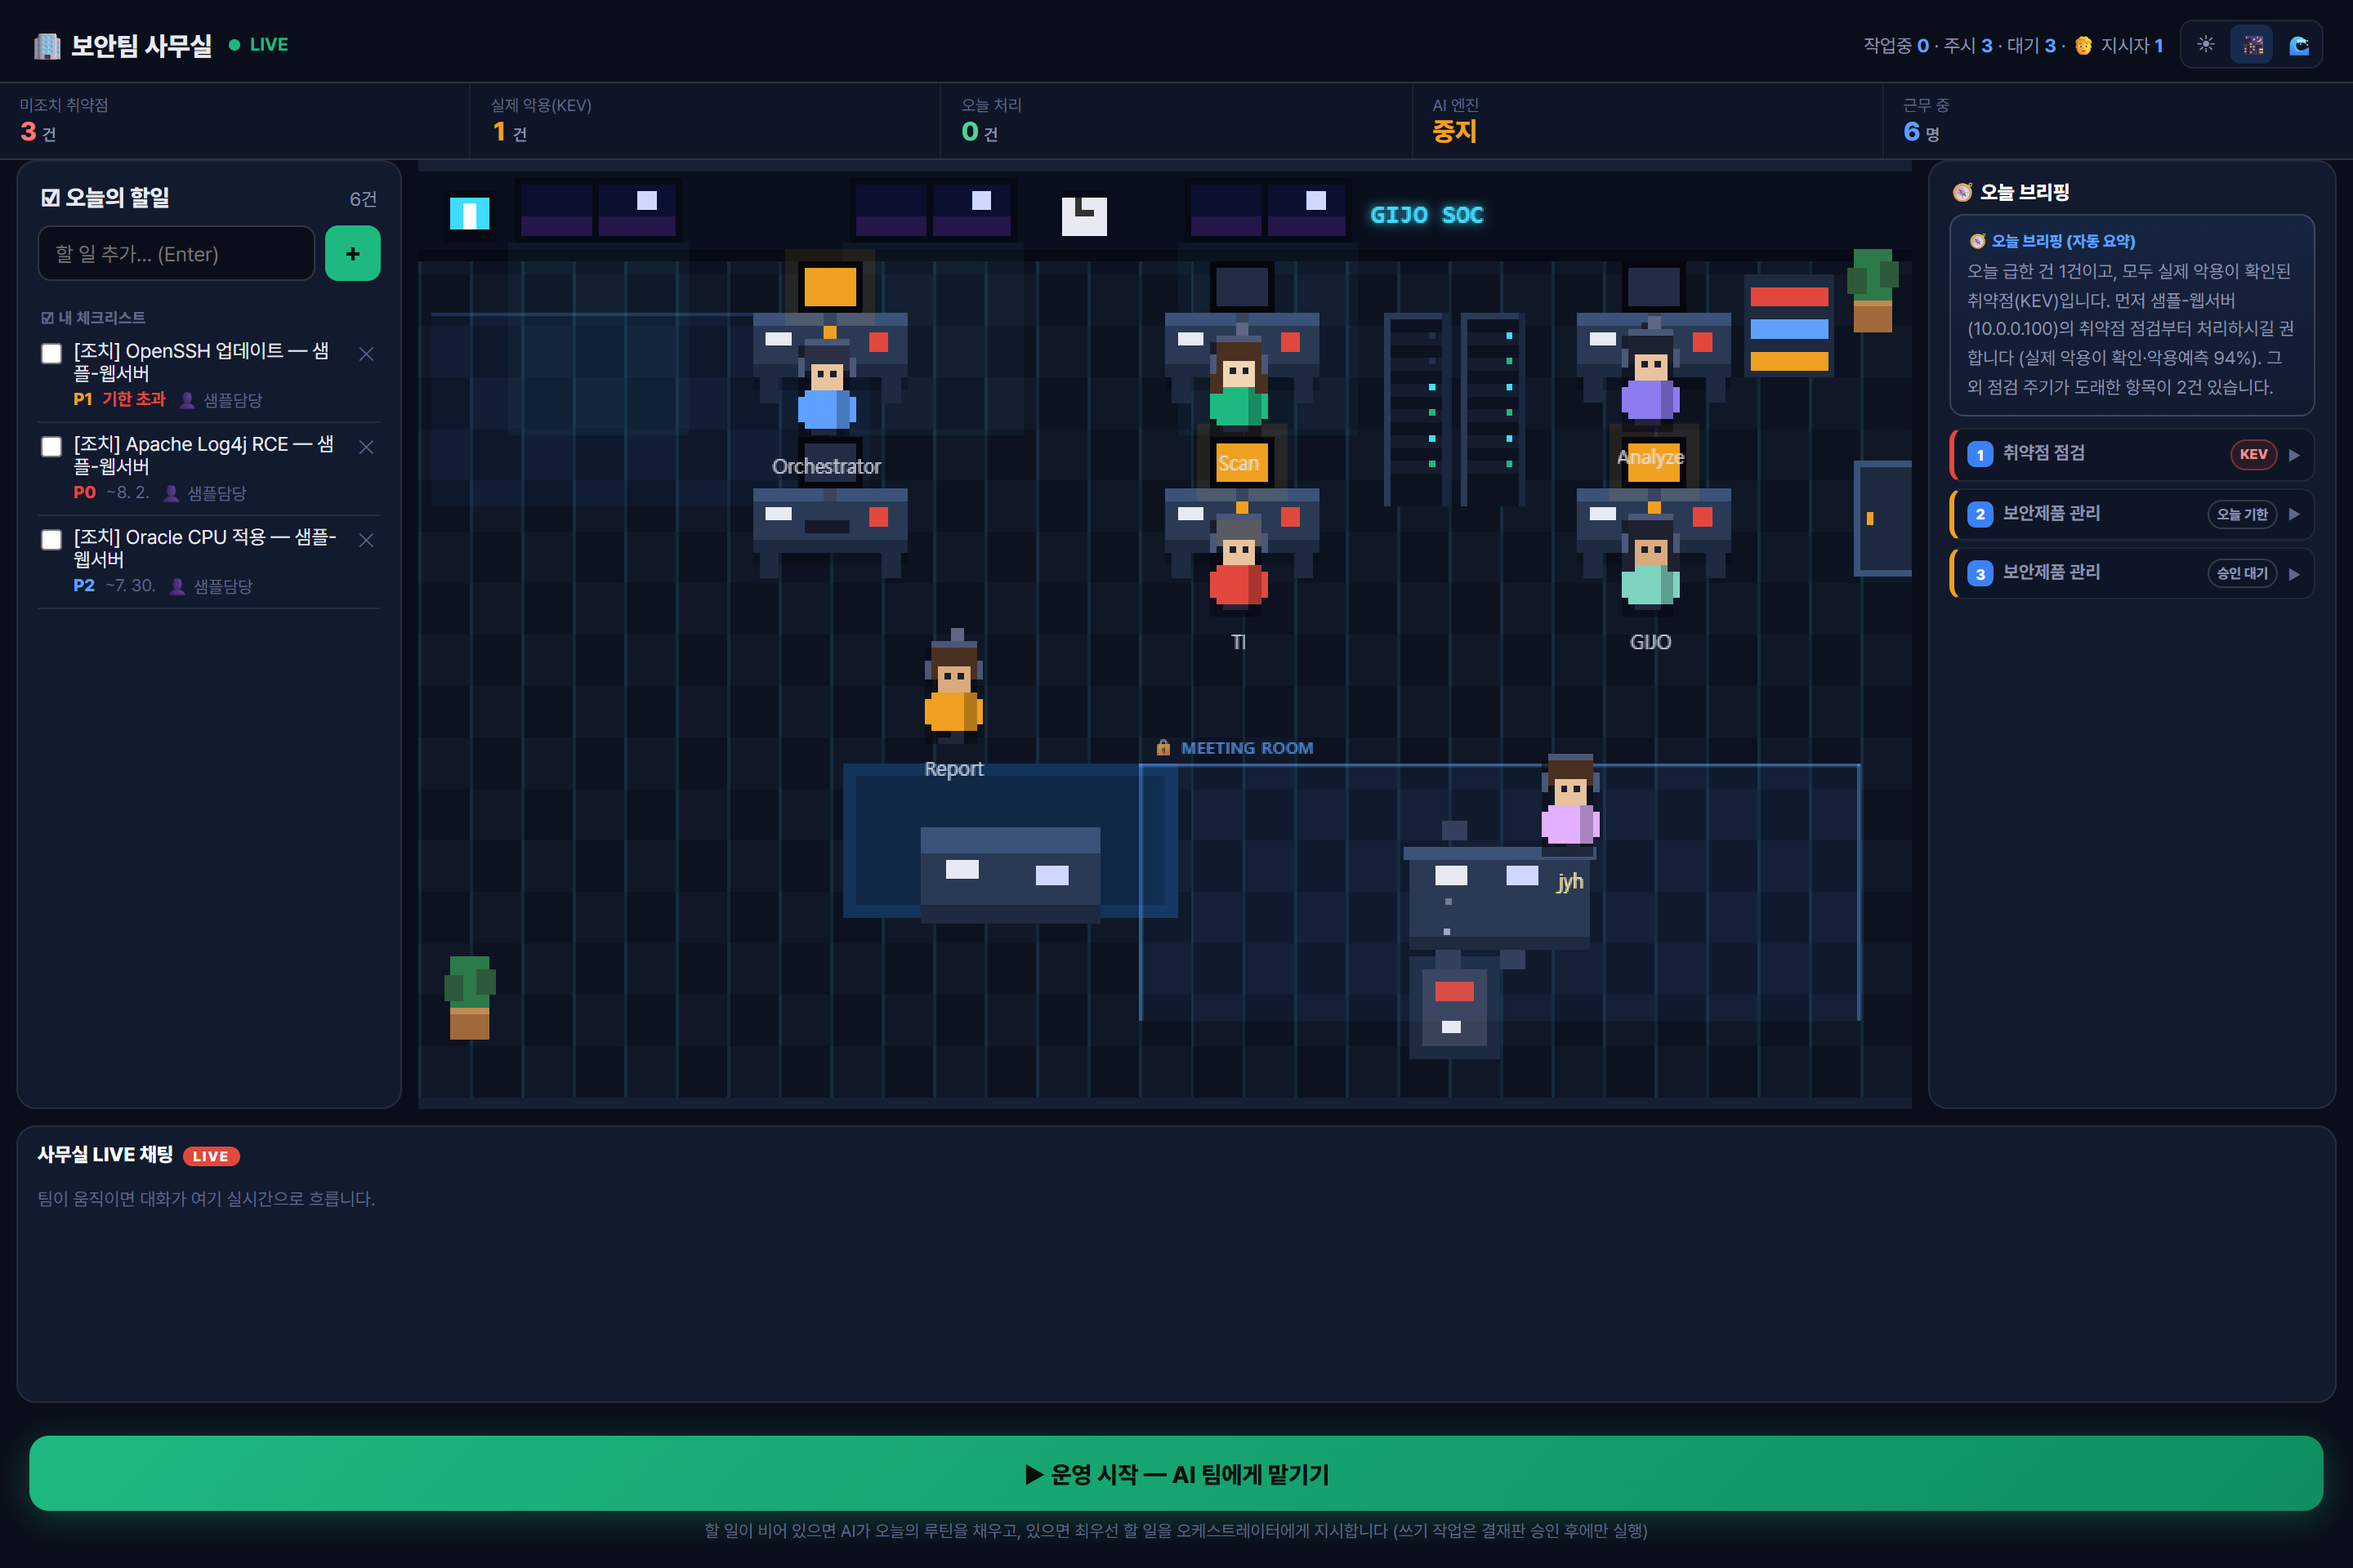
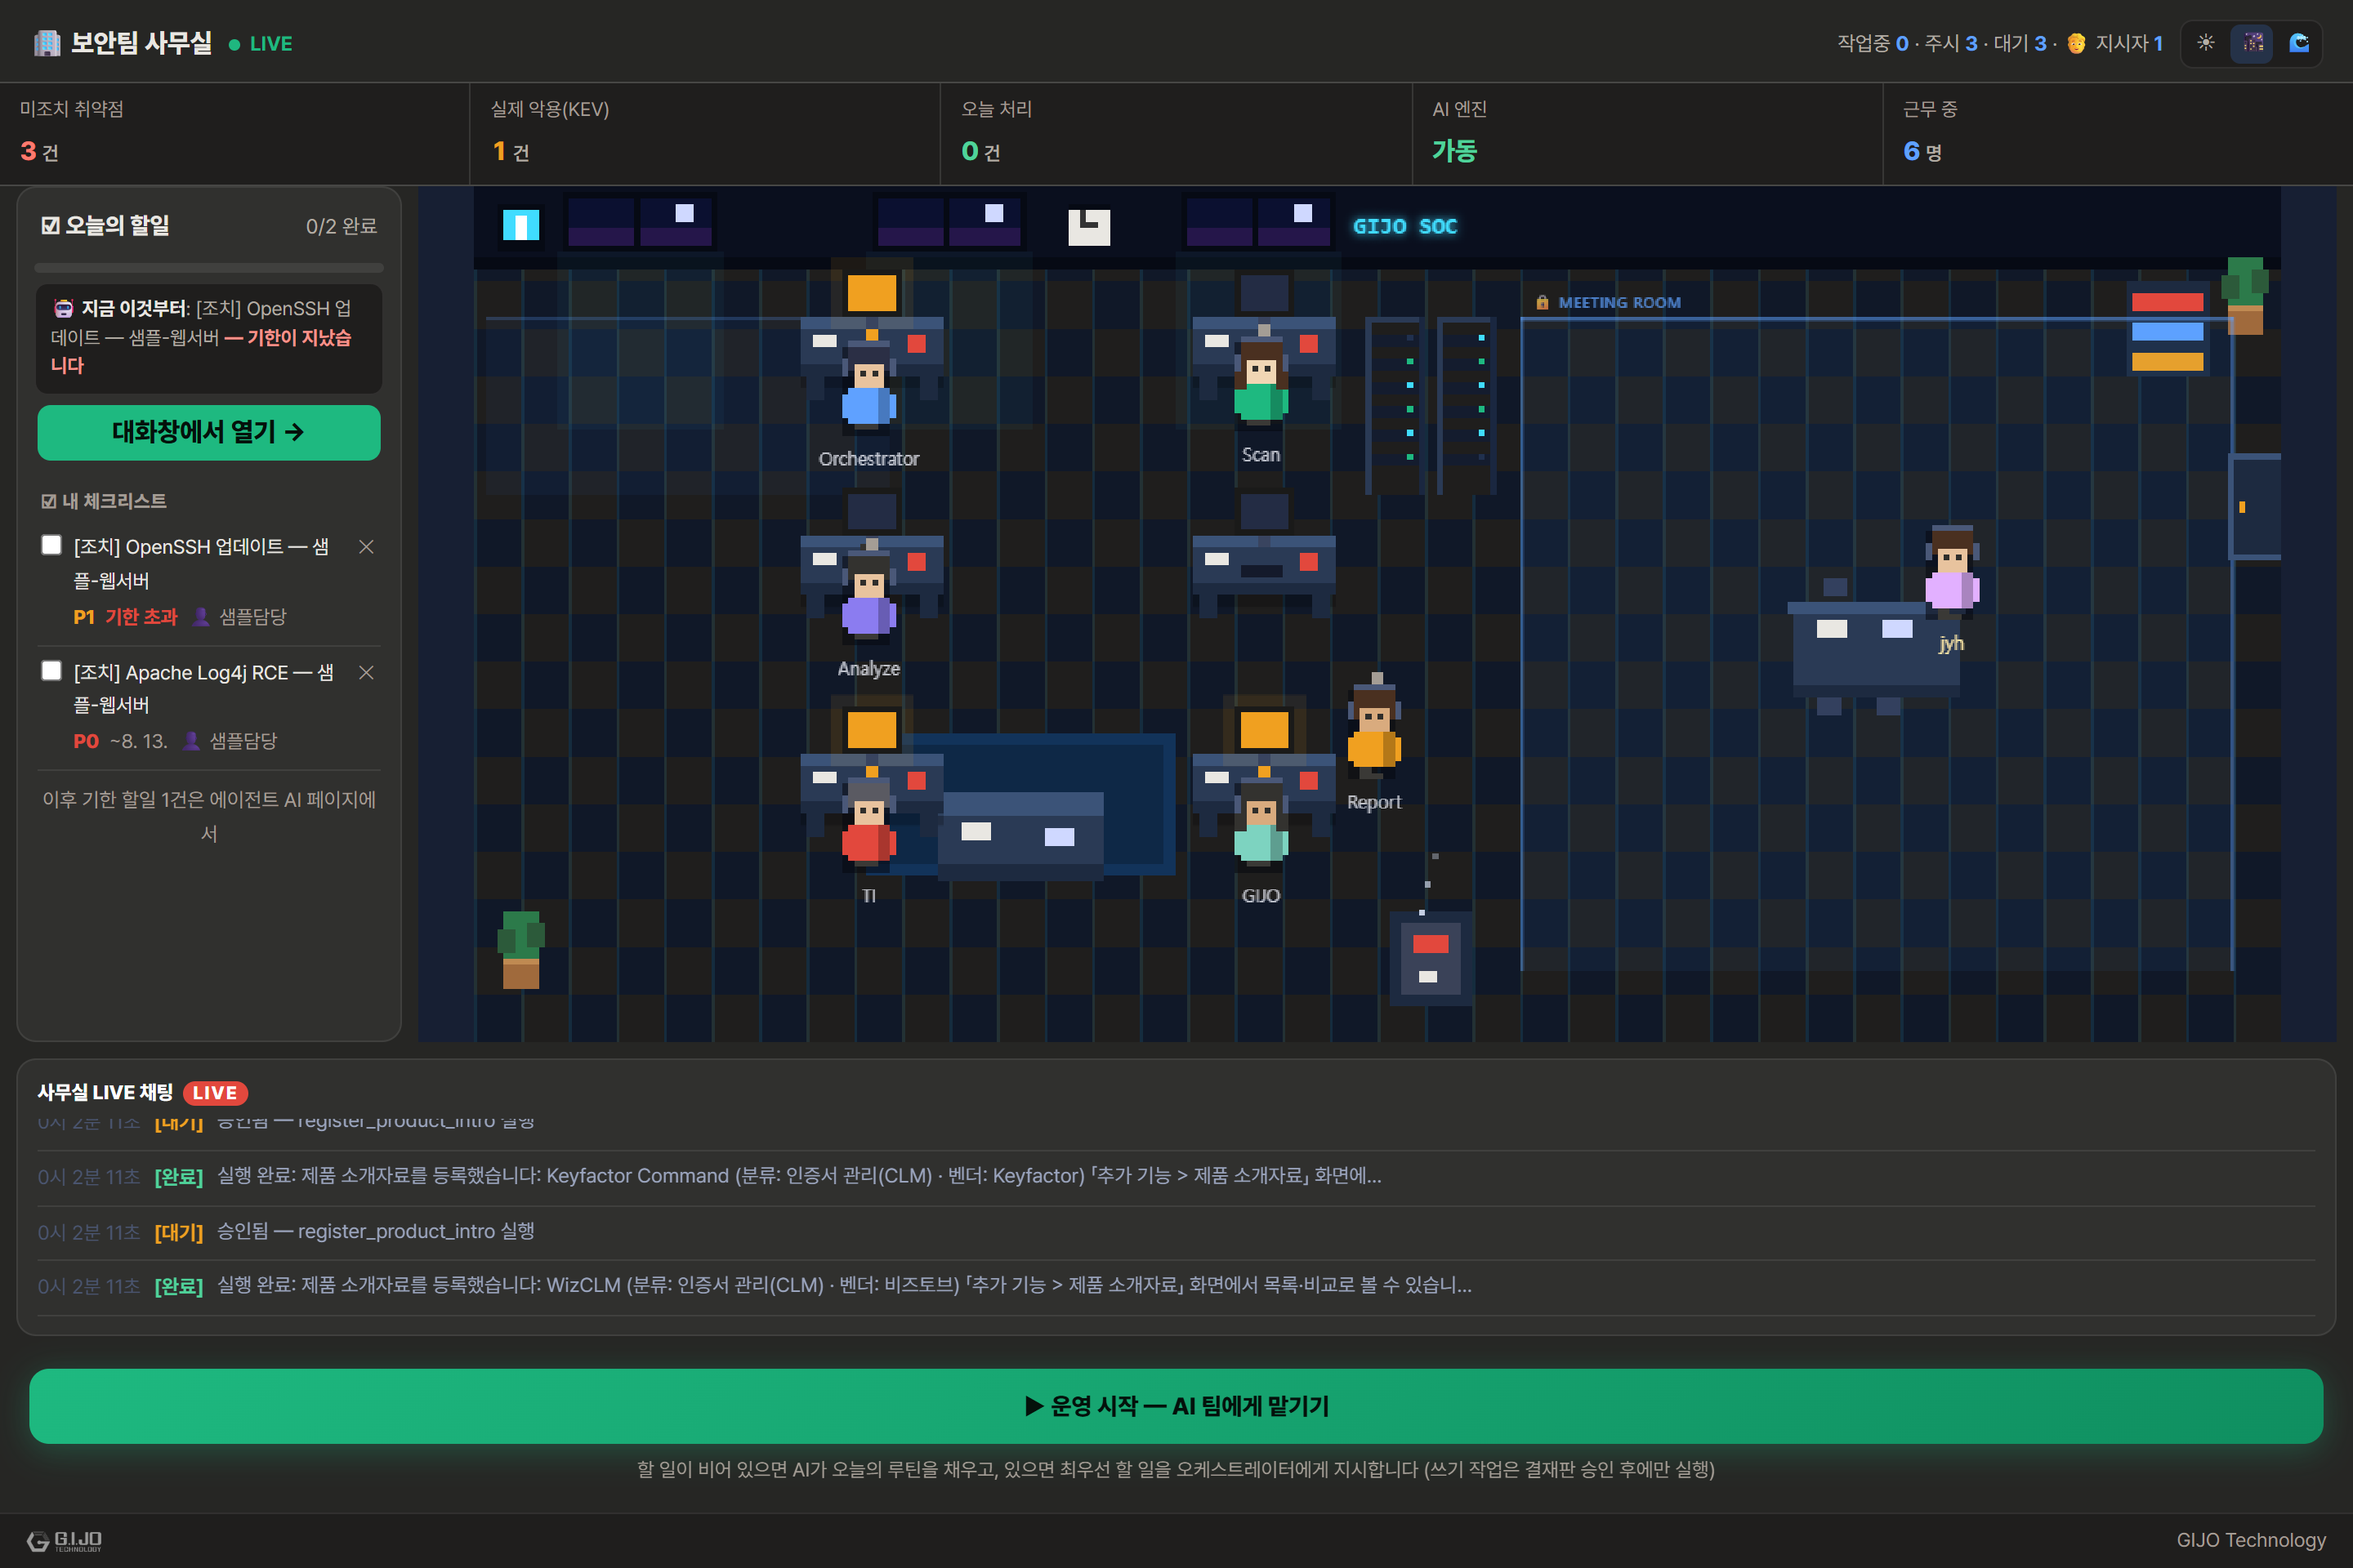
스크린샷 전량 재촬영(현재 화면) + 촬영 도구가 신규 화면 데이터를 알게
문서의 그림이 v2.x 시절이라 "글은 맞는데 그림이 다르다"는 상태였다. 절차 5단계 허브·
추가 기능 메뉴가 보이는 현재 화면으로 30여 장을 다시 찍었다.

 - gen-screenshots: 제품 소개자료·보안 로그 분석의 백데이터(productIntros·logFiles·
   analysisEvents)와 스텁 함수를 추가. 안 적으면 Proxy가 빈 배열을 돌려줘 **조용히 빈
   화면이 찍힌다** — 실제로 「등록된 소개자료가 없습니다」가 찍힌 것을 눈으로 보고 고쳤다
   (도구 주석이 경고하던 그 함정을 그대로 밟았다).
 - 촬영은 격리 서버(4068 · 임시 DB)로 하고, 소개자료 2건은 **제품의 결재 경로**로 넣었다
   (직접 INSERT 아님 — 화면이 실제 데이터를 그리는지 확인하려고).
 - 촬영 뒤 임시 서버·DB 정리 확인.

문서: 제품소개·사용자 매뉴얼의 「스크린샷은 옛 화면」 경고를 걷어내고 현재 화면임을 명시.
운영 문서 폴더 동기화·재인입까지 완료(docs-drift 어긋남 0).

diff --git a/GIJO_AS_제품소개.md b/GIJO_AS_제품소개.md
@@ -362,9 +362,7 @@ finding 내용 해시로 상태를 저장해 **재스캔 후에도 검토 결과
 
 아래 12장은 **실제 제품 화면**을 실측 서버 응답 데이터로 렌더링한 것입니다(1440×960, 2배 해상도).
 
-> ⚠ **스크린샷은 v2.x 시절 것입니다.** 그 뒤 메뉴가 **업무 절차 5단계 허브**로 개편됐고(4.15),
-> 화면 위쪽에 「한눈에 띠」가 생겼습니다. 지금 화면과 다르게 보이는 것은 그 때문입니다 —
-> 최신 화면 캡처는 다음 갱신 때 교체합니다. **기능 설명(4장)은 현재 제품 기준입니다.**
+> 스크린샷은 **현재 제품(5.11.0) 화면**입니다 — 업무 절차 5단계 허브·추가 기능 메뉴가 그대로 보입니다.
 
 | 파일 | 화면 | 보이는 실측 데이터 |
 |---|---|---|
@@ -387,4 +385,4 @@ finding 내용 해시로 상태를 저장해 **재스캔 후에도 검토 결과
 ---
 
 *문서 버전: **v5.11.0** · 데이터 기준일: 2026-08-08 · 수치는 실제 서버 구동 결과(자동화 시험 2,748개 통과).*
-*스크린샷은 v2.x 기준이라 현재 메뉴 구조(절차 5단계 허브)와 다릅니다 — 캡처 교체는 다음 갱신 예정.*
+*스크린샷은 2026-08-09 현재 화면으로 다시 촬영했습니다(실측 데이터 렌더링 — 목업 아님).*

diff --git a/GIJO_AS_사용자_매뉴얼.md b/GIJO_AS_사용자_매뉴얼.md
@@ -4,9 +4,7 @@
 > **제품 목적:** 흩어진 보안 정보를 Agent AI + 로컬 LLM이 자동으로 이어 붙여, **한 명의 보안담당자가 여러 명 몫**을 해내도록 돕습니다.
 > **버전:** v5.11.0 · **문서 기준일:** 2026-08-08
 >
-> ⚠ **스크린샷 안내:** 메뉴가 **업무 절차 5단계 허브**로 개편돼(2026-08),
-> `screenshots/` 의 그림들은 아직 옛 화면입니다. **글이 맞고 그림이 옛것이니,
-> 배치가 다르면 글을 따라 주세요.** 새 화면 캡처로 교체할 예정입니다.
+> **스크린샷 안내:** `screenshots/` 의 그림은 **현재 화면(5.11.0)**입니다 — 2026-08-09에 다시 찍었습니다.
 
 ---
 
@@ -463,4 +461,4 @@
 
 ---
 
-*본 매뉴얼은 GIJO AS v5.11.0 기준입니다(2026-08-08). 기능은 실기동으로 검증했고, 스크린샷은 옛 화면이라 교체 예정입니다 — 배치가 다르면 글을 따라 주세요.*
+*본 매뉴얼은 GIJO AS v5.11.0 기준입니다(2026-08-08). 기능은 실기동으로 검증했고, 스크린샷도 같은 날 현재 화면으로 다시 찍었습니다.*
